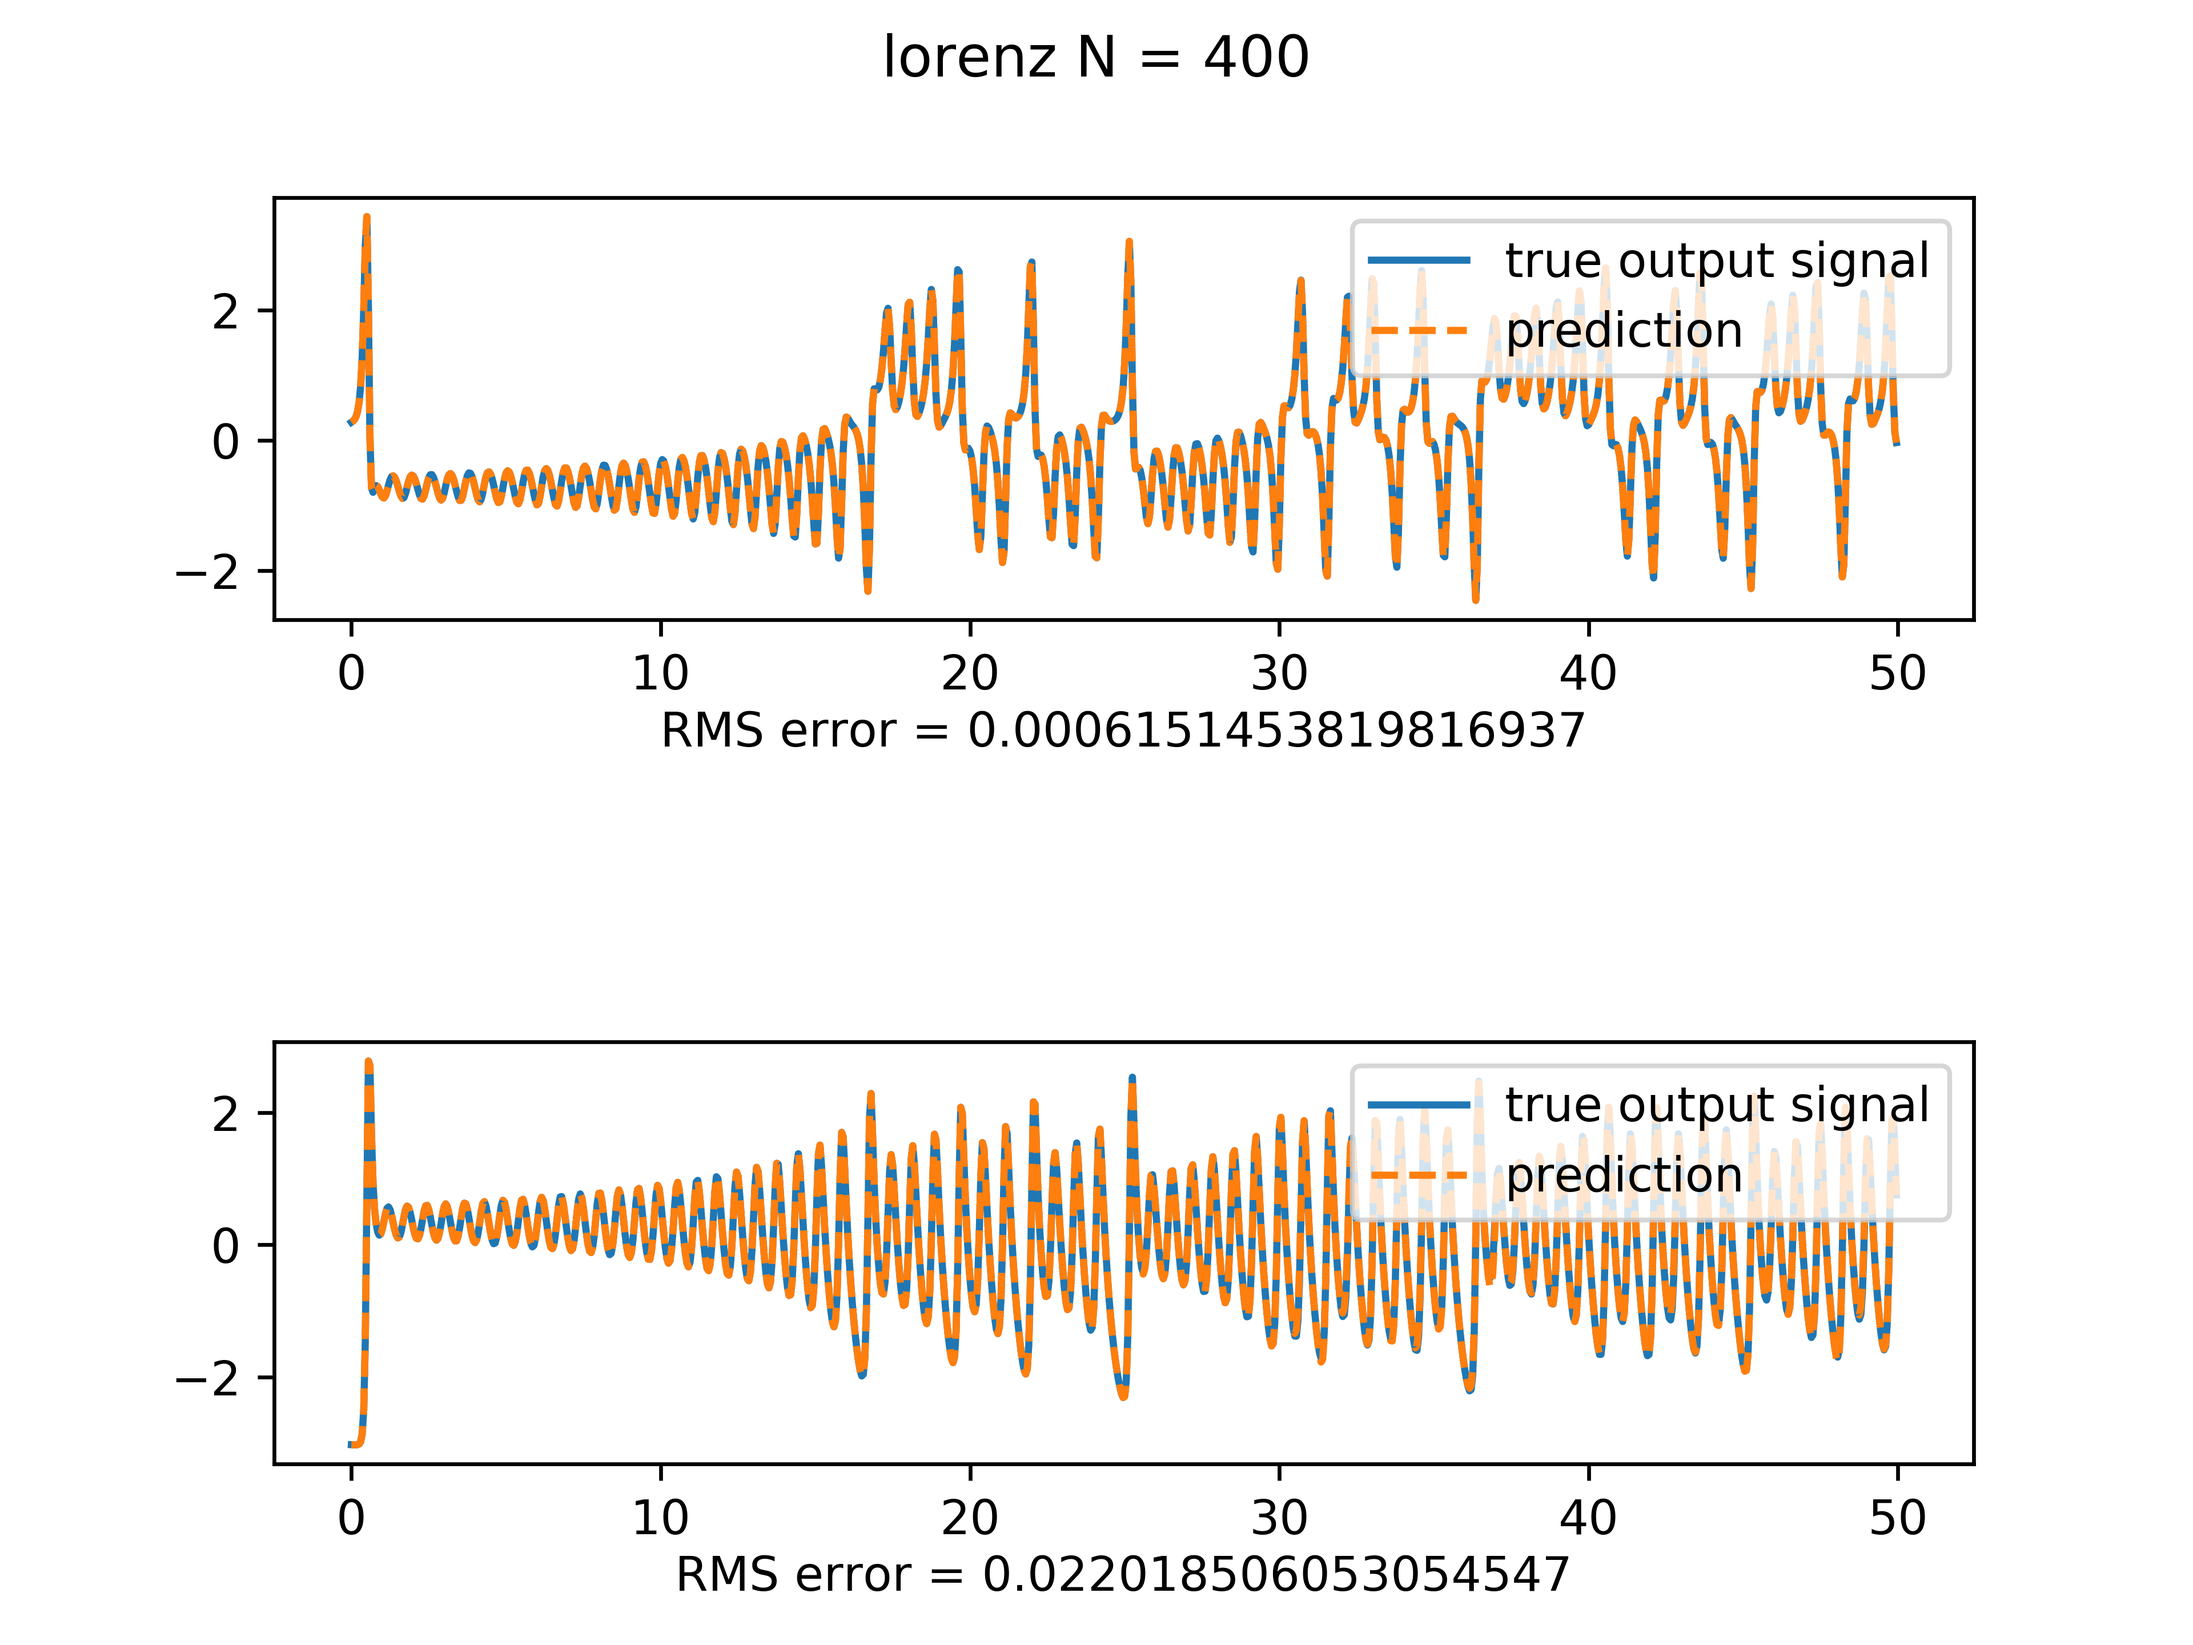
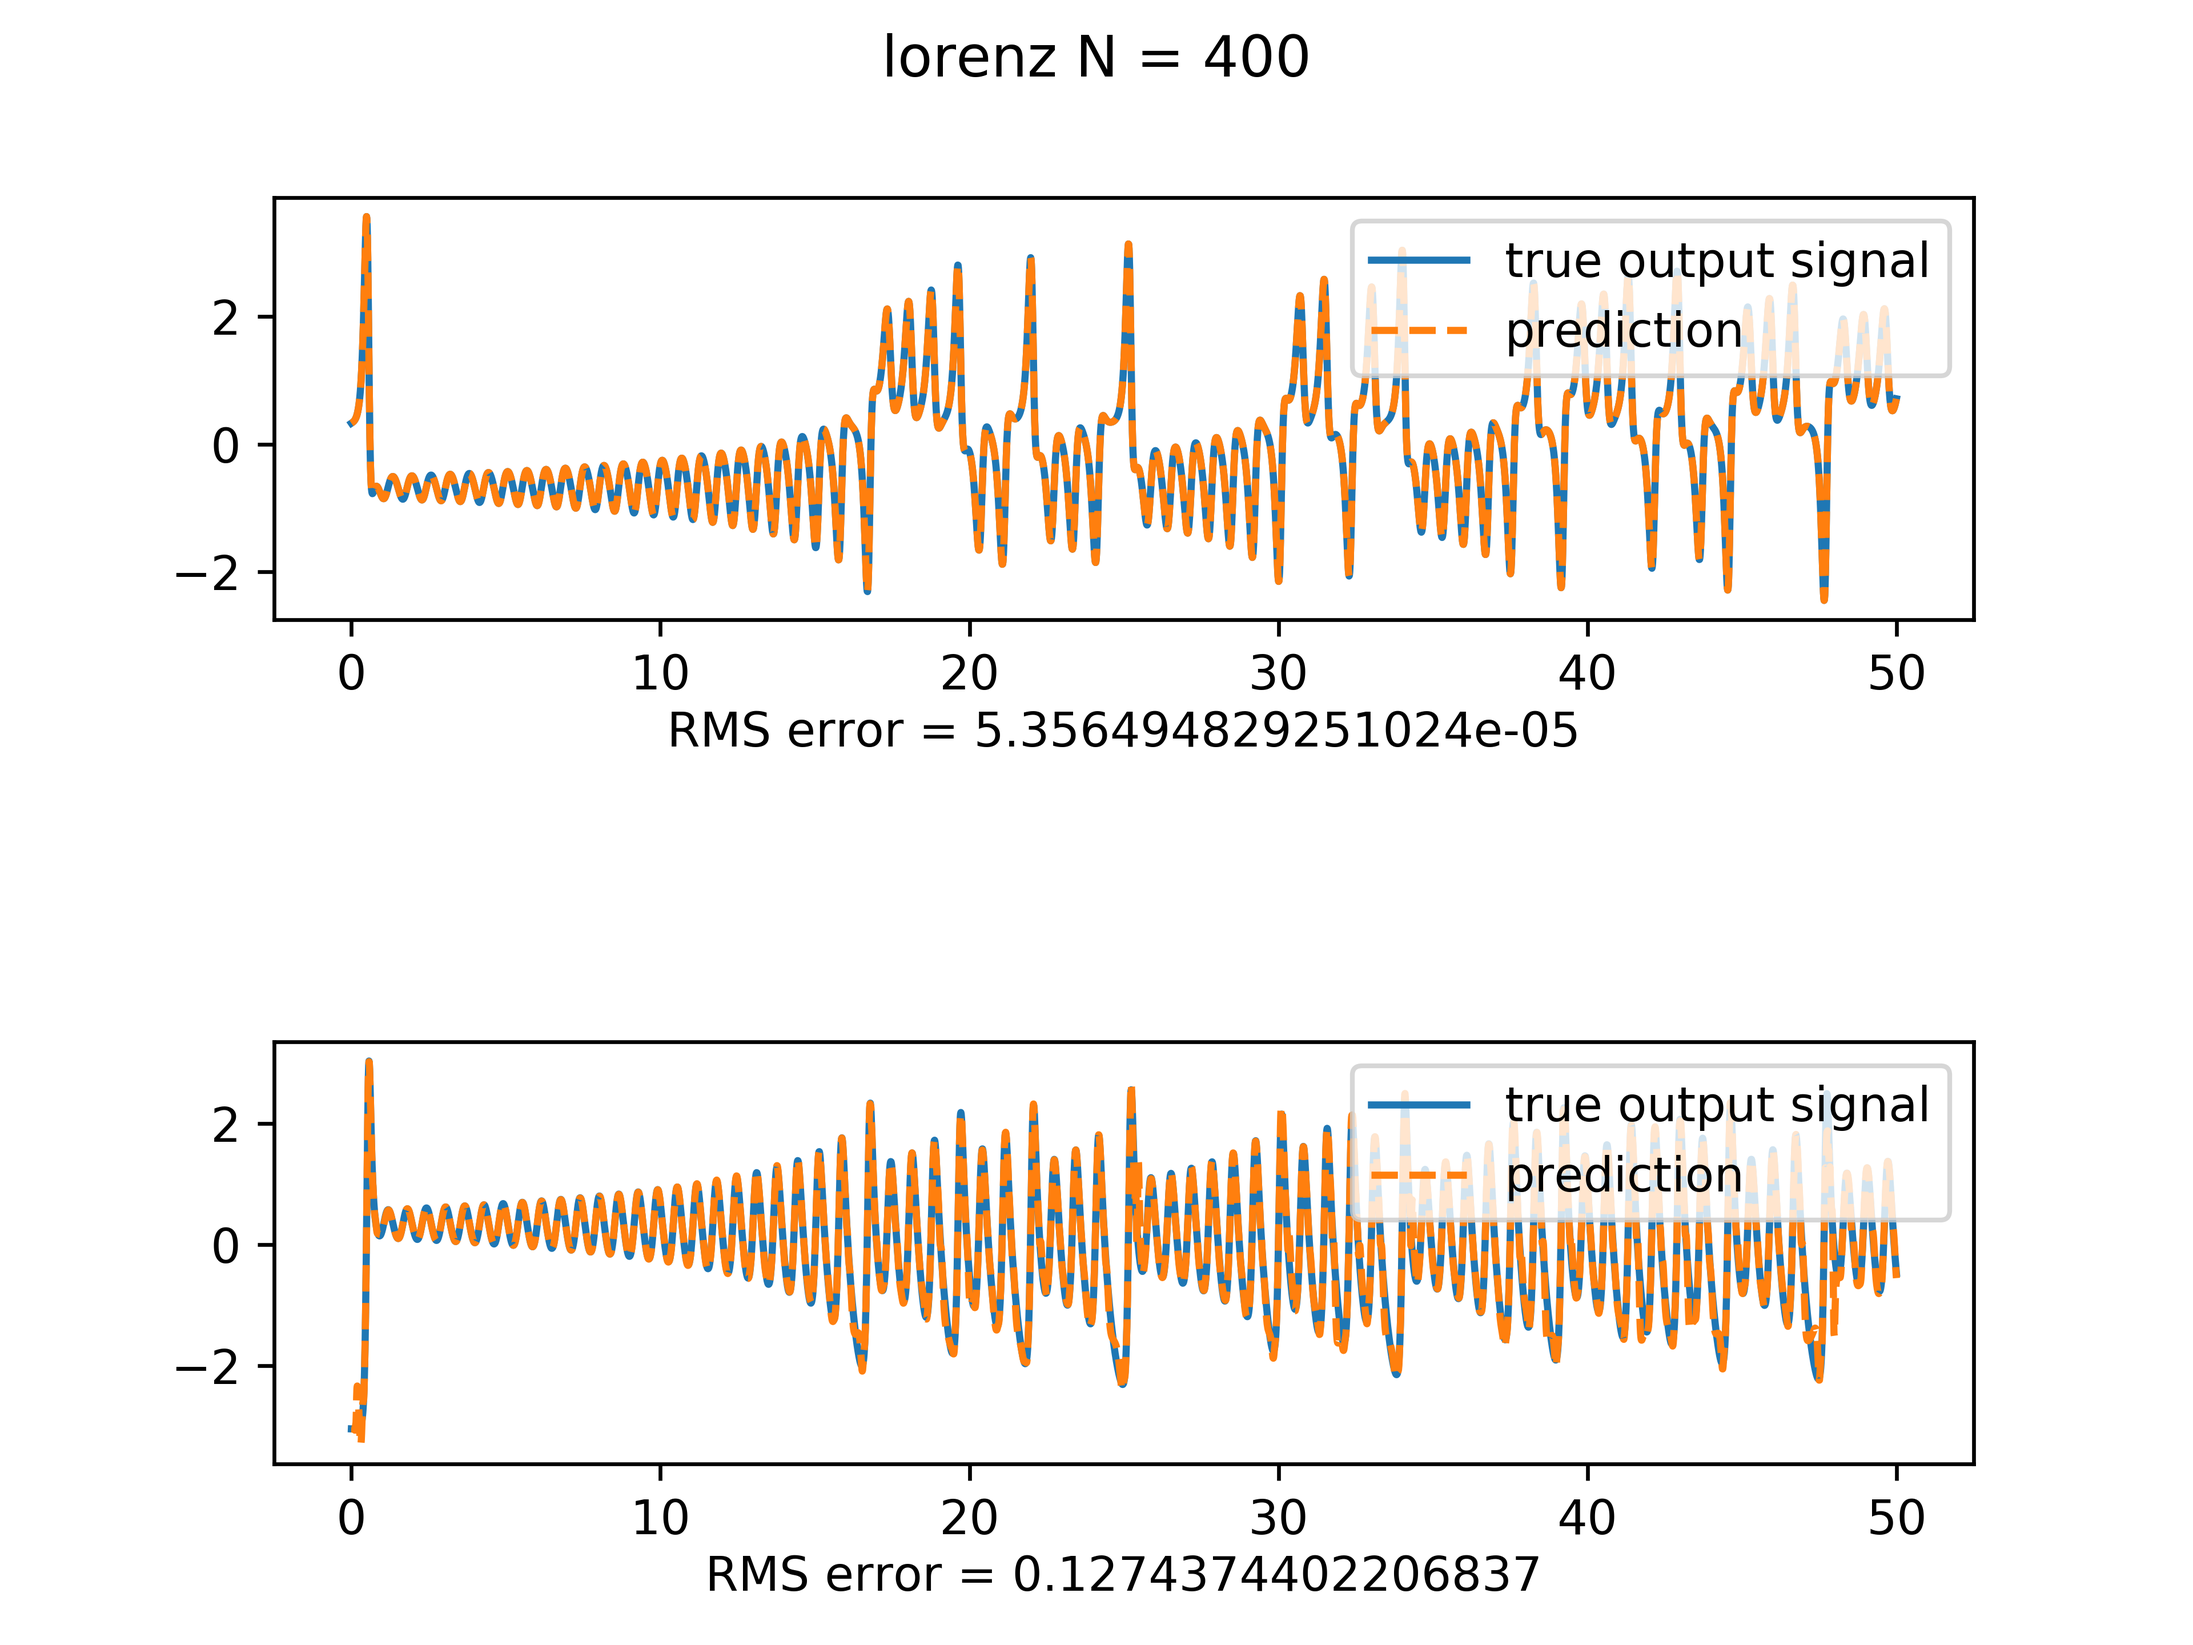
some results

diff --git a/reservoir.py b/reservoir.py
@@ -30,8 +30,8 @@ class Model:
             raise ValueError('Now noly \'lorenz\' model and \'rossler\' model are supported!')
         else:
             # TODO: 现在只能分别设置时间和其他参数，下面时间格式为 t = np.arange(T0, T, delta_t)，后续待改进
-            self.__time ={'lorenz' :{'T0' : 0, 'T' : 50, 'delta_t' : 0.05},
-                         'rossler' :{'T0' : 0, 'T' : 260, 'delta_t' : 0.01}}
+            self.__time ={'lorenz' :{'T0' : 0, 'T' : 50, 'delta_t' : 0.001},
+                         'rossler' :{'T0' : 0, 'T' : 260, 'delta_t' : 0.001}}
             model_list = {
                 'lorenz' : {
                     'init_value' : (0.1, 0.1, 0.1),
@@ -289,7 +289,7 @@ class Reservoir:
         
         plt.subplots(self.P, 1)
         # plt.suptitle(self.model_name +', N = ' + str(self.N) + ', Degree = %.5f' % (self.D))
-        plt.suptitle(self.model_name +' N = ' + str(self.N))
+        plt.suptitle('%s N = %s dt = %s' %(self.model_name, str(self.N), self.model['delta_t']))
         plt.subplots_adjust(hspace = 1)
         
         for i in range(self.P):
@@ -298,7 +298,7 @@ class Reservoir:
             plt.plot(t, self.dataset_out[i], ls = '-', label = 'true output signal')
             plt.plot(t, self.S[i], ls = '--', label = 'prediction')
             plt.legend(loc = 'upper right')
-        plt.savefig('Python--%s N = %s.png' % (self.model_name, self.N), dpi = 600)
+        plt.savefig('Python--%s N = %s dt = %s.png' % (self.model_name, self.N, self.model['delta_t']), dpi = 600)
         plt.show()
     
     # 集训练、预测和绘图功能于一体

diff --git a/README.MD b/README.MD
@@ -5,13 +5,31 @@ Code for reservoir computing.
 
 ## Python implementation
 
-- lorenz system N = 400
+### Lorens System
+- lorenz system N = 400 dt = 0.001
 
-<img src="./Python--lorenz N = 400.png" style = "height: 400px;"/>
+<img src="./Python--lorenz N = 400 dt = 0.001.png" style = "height: 400px;"/>
 
-- rossler system N = 400
+- lorenz system N = 400 dt = 0.01
 
-<img src="./Python--rossler N = 400.png" style = "height: 400px;"/>
+<img src="./Python--lorenz N = 400 dt = 0.01.png" style = "height: 400px;"/>
+
+- lorenz system N = 400 dt = 0.05
+
+<img src="./Python--lorenz N = 400 dt = 0.05.png" style = "height: 400px;"/>
+
+### Rossler System
+- rossler system N = 400 dt = 0.001
+
+<img src="./Python--rossler N = 400 dt = 0.001.png" style = "height: 400px;"/>
+
+- rossler system N = 400 dt = 0.01
+
+<img src="./Python--rossler N = 400 dt = 0.01.png" style = "height: 400px;"/>
+
+- rossler system N = 400 dt = 0.05
+
+<img src="./Python--rossler N = 400 dt = 0.05.png" style = "height: 400px;"/>
 
 
 ## Matlab implementation
